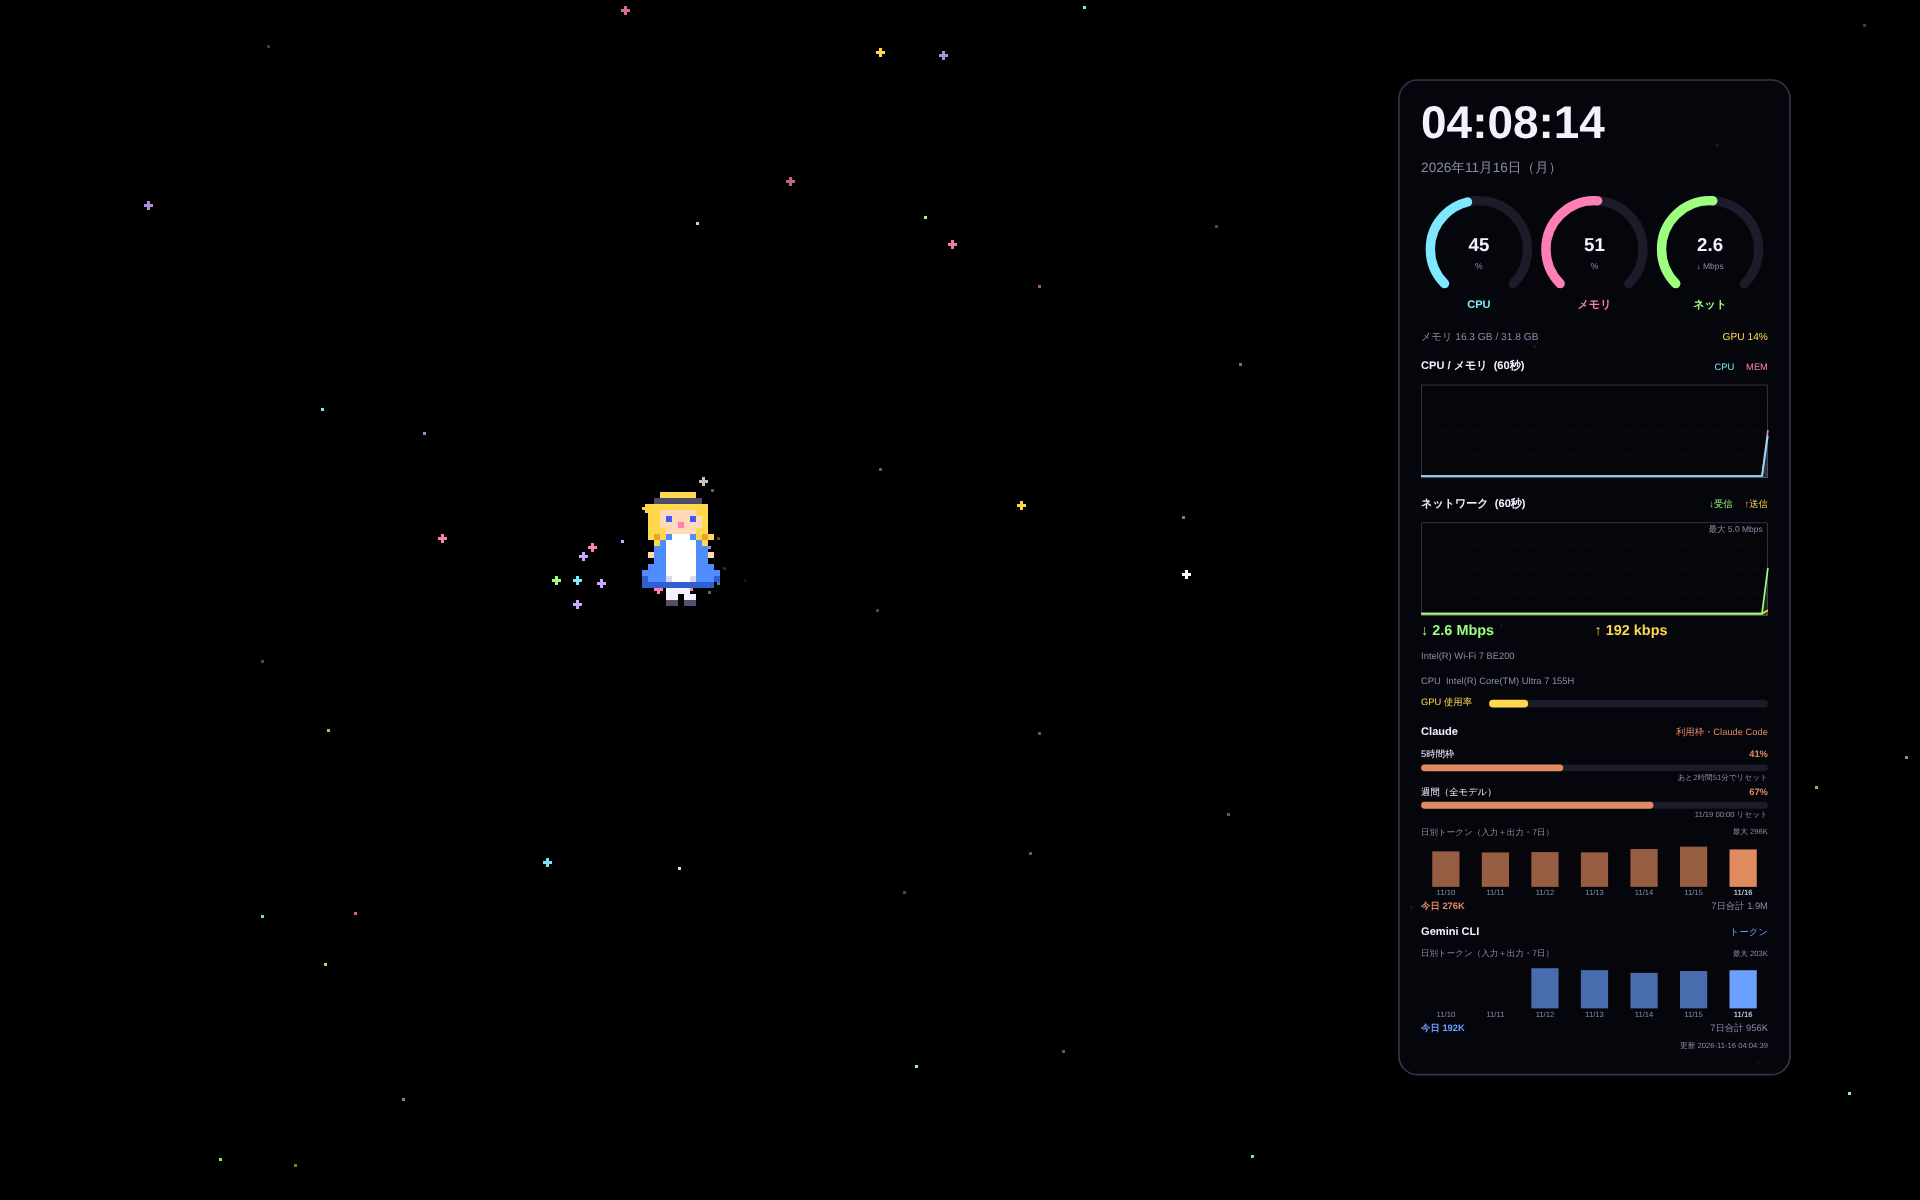
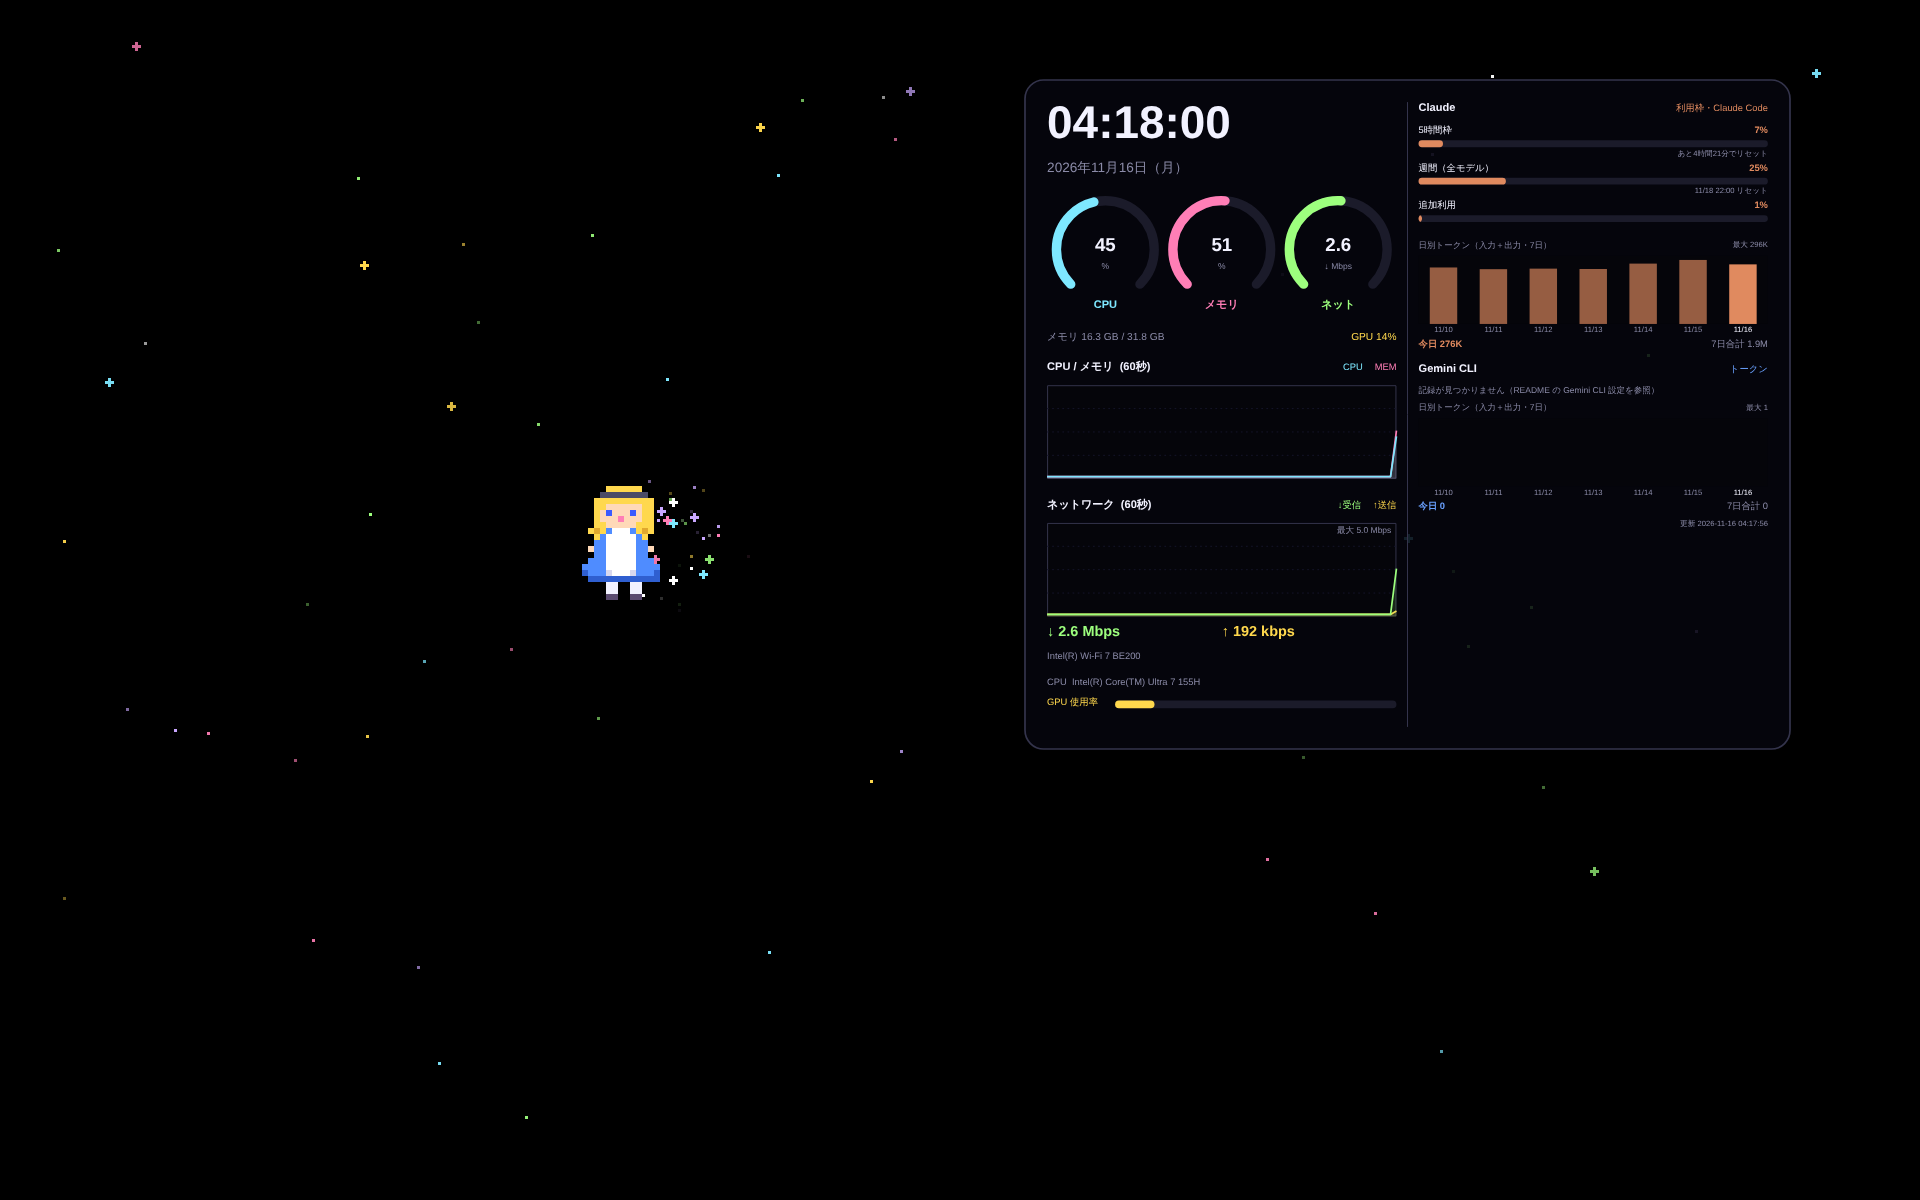
Lively版v5：パネルを横長2列（左PC・右AI）に変更、extra_usageを「追加利用」と表示
Claude-Session: https://claude.ai/code/session_01Ed3vnCFqNZxn8YQ3tcD2rj

diff --git a/moving_desktop/lively/index.html b/moving_desktop/lively/index.html
@@ -26,6 +26,7 @@ const CFG = {
   fps: 30,              // 描画の上限（下げるほど軽い。15～60）
   particles: 60,        // 背景の粒の数（減らすほど軽い）
   linkDist: 150,        // 粒同士を線で結ぶ距離（1080p基準）
+  layout: "wide",       // "wide"（横長2列：左＝PC、右＝AI）/ "tall"（縦長1列）
   panelSide: "right",   // "right" / "left"
   panelScale: 0.85,     // パネルの大きさ（1.0 = 標準）
   panelMarginX: 130,    // 画面の端からの距離（px）※右端のアイコン列を避ける
@@ -275,7 +276,7 @@ function drawPixelBackground(dt) {
   const G = px.girl, rows = GIRL_BODY.length + 3;
   const gu = Math.max(3, Math.round(5.5 * bs));         // 女の子の1ドットの大きさ
   const sw = GIRL_BODY[0].length * gu, sh = rows * gu;
-  const panelW = 460 * s + CFG.panelMarginX * 2;
+  const panelW = panelWidth() + CFG.panelMarginX * 2;
   const xMin = CFG.panelSide === "left" ? panelW : W * 0.05;
   const xMax = CFG.panelSide === "left" ? W * 0.95 - sw : W - panelW - sw;
   const dx = G.tx - G.x, dy = G.ty - G.y, d = Math.hypot(dx, dy);
@@ -394,11 +395,14 @@ function sectionTitle(x0, x1, y, title, legends) {
   return y + 28 * s;
 }
 
+function panelWidth() { return (CFG.layout === "wide" ? 900 : 460) * s; }
+
 function drawPanel() {
-  const pw = 460 * s, pad = 26 * s;
+  const pw = panelWidth(), pad = 26 * s, wide = CFG.layout === "wide";
   const x0 = CFG.panelSide === "left" ? CFG.panelMarginX : W - pw - CFG.panelMarginX;
   const y0 = CFG.panelMarginY;
-  const ix0 = x0 + pad, ix1 = x0 + pw - pad, iw = ix1 - ix0;
+  const cw = wide ? (pw - pad * 3) / 2 : pw - pad * 2;      // 1列の幅
+  const ix0 = x0 + pad, ix1 = ix0 + cw, iw = cw;
 
   ctx.fillStyle = `rgba(${PANEL_RGB},${CFG.panelAlpha})`; rr(x0, y0, pw, panelH, 22 * s); ctx.fill();
   ctx.strokeStyle = C.edge; ctx.lineWidth = 2 * s; ctx.stroke();
@@ -456,8 +460,19 @@ function drawPanel() {
   }
   y += 34 * s;
 
-  if (CFG.showAI) y = drawAI(ix0, ix1, iw, y);
-  panelH = y + pad - y0;   // 次のフレームで中身に合わせた高さにする
+  let yEnd = y;
+  if (CFG.showAI) {
+    if (wide) {
+      // 右の列に AI 使用量（間に区切り線）
+      const rx0 = ix1 + pad, rx1 = rx0 + cw;
+      ctx.strokeStyle = C.edge; ctx.lineWidth = 1;
+      ctx.beginPath(); ctx.moveTo(ix1 + pad / 2, y0 + pad); ctx.lineTo(ix1 + pad / 2, y0 + panelH - pad); ctx.stroke();
+      yEnd = Math.max(y, drawAI(rx0, rx1, cw, y0 + pad));
+    } else {
+      yEnd = drawAI(ix0, ix1, iw, y);
+    }
+  }
+  panelH = yEnd + pad - y0;   // 次のフレームで中身に合わせた高さにする
 }
 
 // ---------- AI 使用量 ----------
@@ -470,7 +485,7 @@ function dailyChart(ix0, ix1, iw, y, daily, col, name) {
   text("日別トークン（入力＋出力・7日）", ix0, y, 10, C.sub);
   text("最大 " + fmtTok(max), ix1, y, 9, C.sub, "normal", "right");
   y += 17 * s;
-  const gh = 52 * s, n = daily.length, gw = iw / n, bw = Math.max(3, gw * 0.55);
+  const gh = (CFG.layout === "wide" ? 80 : 52) * s, n = daily.length, gw = iw / n, bw = Math.max(3, gw * 0.55);
   ctx.fillStyle = C.graphBg; ctx.fillRect(ix0, y, iw, gh);
   for (let i = 0; i < n; i++) {
     const bx = ix0 + gw * i + gw / 2, v = tokTotal(daily[i]);
@@ -505,7 +520,8 @@ function drawAI(ix0, ix1, iw, y) {
   for (const L of (cl.limits || []).slice(0, 3)) {
     const pct = Math.max(0, Math.min(100, L.pct));
     const col = pct >= 90 ? C.warn : pct >= 70 ? C.gpu : C.claude;
-    text(L.label, ix0, y, 11, C.text);
+    const LBL = { extra_usage: "追加利用", seven_day_oauth_apps: "週間（連携アプリ）" };
+    text(LBL[L.label] || LBL[L.key] || L.label, ix0, y, 11, C.text);
     text(`${pct.toFixed(0)}%`, ix1, y, 11, col, "bold", "right");
     y += 17 * s;
     ctx.fillStyle = C.track; rr(ix0, y, iw, 8 * s, 4 * s); ctx.fill();

diff --git a/moving_desktop/lively/ai_usage_collector.py b/moving_desktop/lively/ai_usage_collector.py
@@ -123,6 +123,8 @@ def fetch_claude_limits():
         "seven_day": "週間（全モデル）",
         "seven_day_opus": "週間（Opus）",
         "seven_day_sonnet": "週間（Sonnet）",
+        "seven_day_oauth_apps": "週間（連携アプリ）",
+        "extra_usage": "追加利用",
     }
     limits = []
     for key, val in raw.items():
